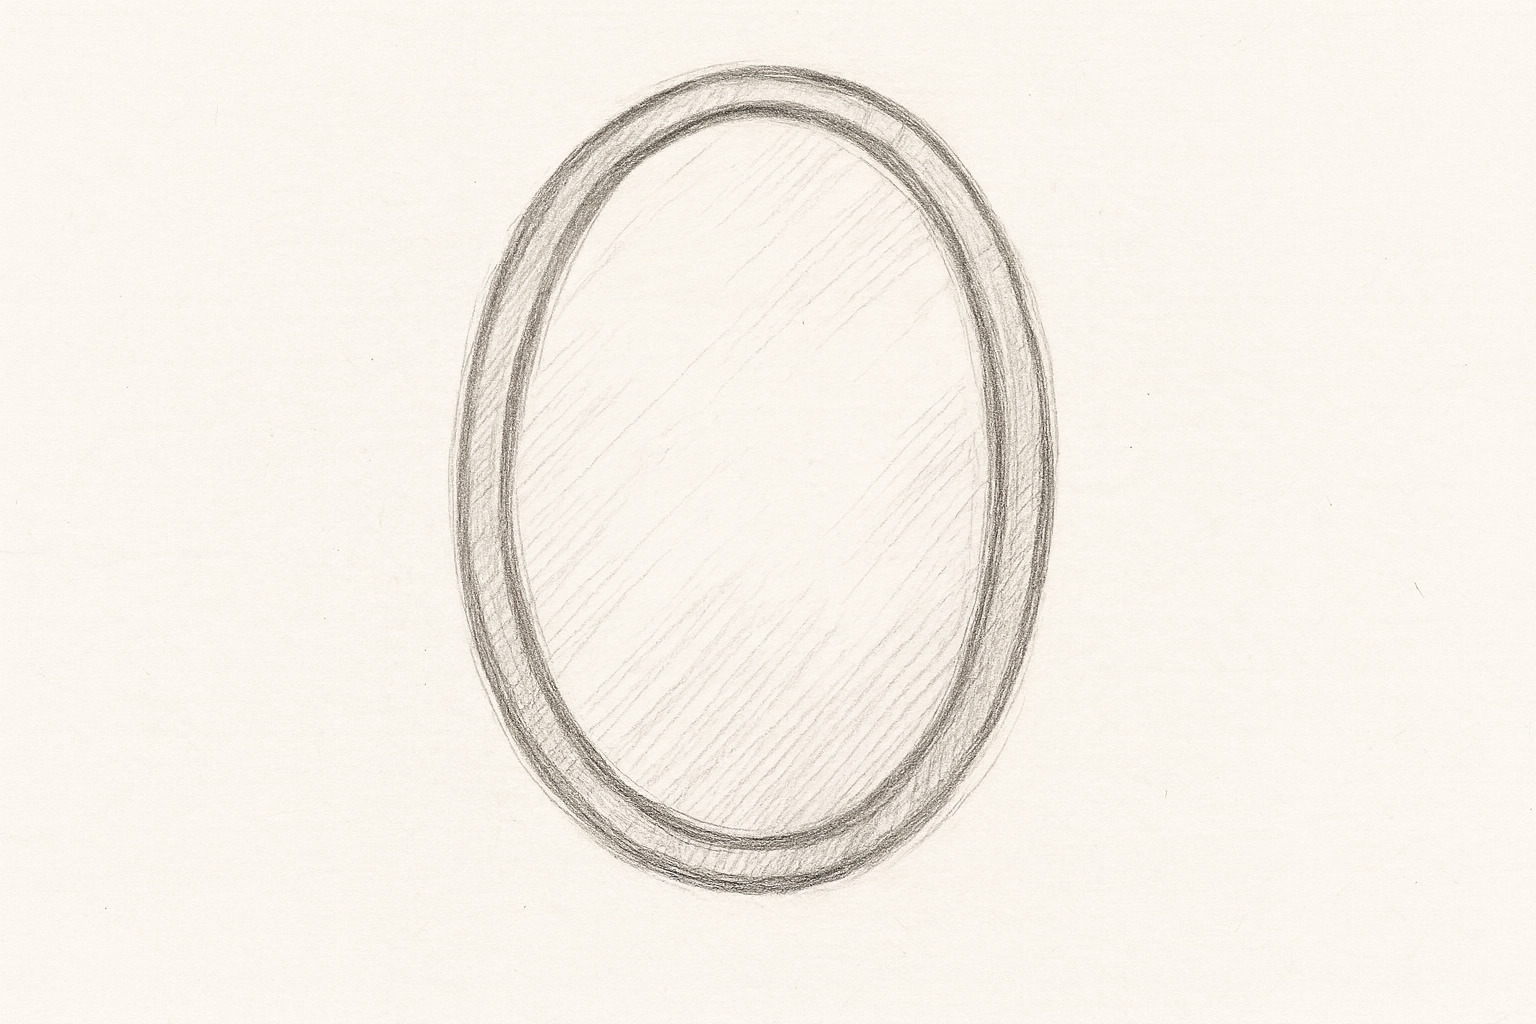
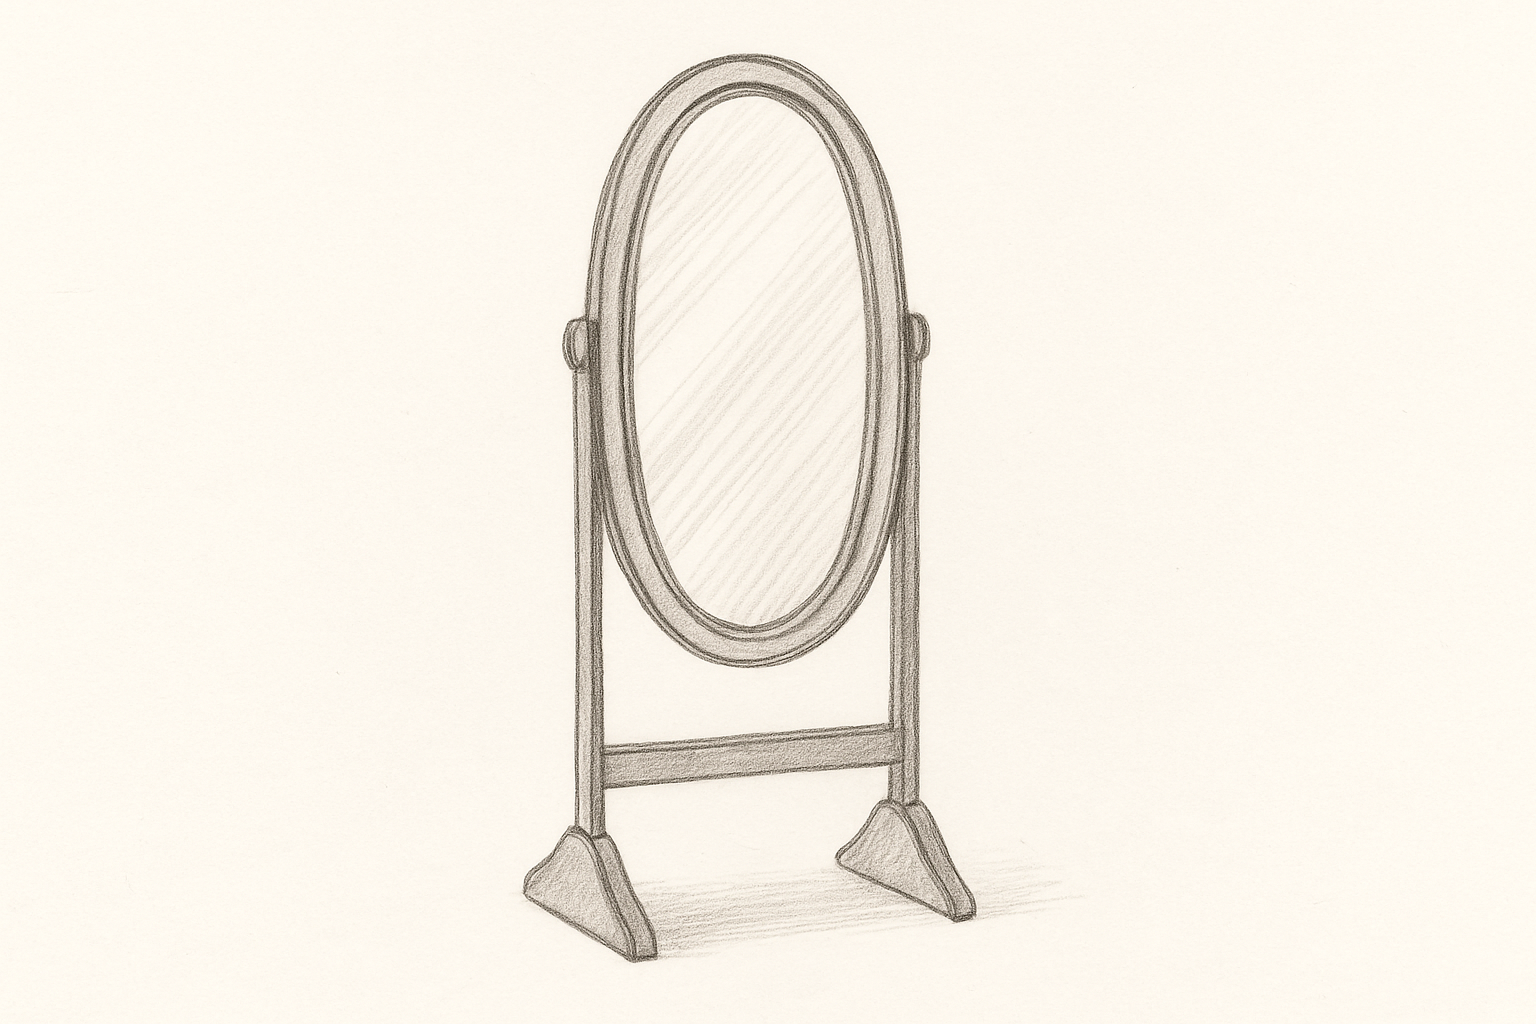
alteracores finais

Changed region(s): [[0.2812, 0.0312, 0.6875, 0.9375]]

diff --git a/src/components/atividades/modulo6/viagemBemEstar.js b/src/components/atividades/modulo6/viagemBemEstar.js
@@ -141,32 +141,68 @@ useEffect(() => {
   };
 
     const handleDragEnd = (result) => {
-      if (!result.destination) return;
-      const { source, destination, draggableId } = result;
+  if (!result.destination) return;
+
+  const { source, destination, draggableId } = result;
+
+  // Limpa aviso se largou numa área válida que não seja a lista
   if (destination && destination.droppableId !== "frasesDisponiveis") {
     if (showValidationError) setShowValidationError(false);
   }
 
-      // Clear validation error when user interacts
-      if (showValidationError) {
-        setShowValidationError(false);
-      }
+  // Limpa erro de validação ao interagir
+  if (showValidationError) setShowValidationError(false);
 
-      if (source.droppableId === "frasesDisponiveis") {
-        setFrasesDisponiveis((prev) => prev.filter((f) => f !== draggableId));
-        setRespostas((prev) => ({
-          ...prev,
-          [destination.droppableId]: [...prev[destination.droppableId], draggableId],
-        }));
-      } else if (source.droppableId !== destination.droppableId) {
-        const frase = respostas[source.droppableId].find((f) => f === draggableId);
-        setRespostas((prev) => ({
-          ...prev,
-          [source.droppableId]: prev[source.droppableId].filter((f) => f !== frase),
-          [destination.droppableId]: [...prev[destination.droppableId], frase],
-        }));
-      }
-    };
+  // 1) Reordenar na MESMA lista (lista ou recipiente)
+  if (source.droppableId === destination.droppableId) {
+    if (source.droppableId === "frasesDisponiveis") {
+      setFrasesDisponiveis((prev) => {
+        const list = Array.from(prev);
+        const [moved] = list.splice(source.index, 1);
+        list.splice(destination.index, 0, moved);
+        return list;
+      });
+    } else {
+      setRespostas((prev) => {
+        const list = Array.from(prev[source.droppableId] || []);
+        const [moved] = list.splice(source.index, 1);
+        list.splice(destination.index, 0, moved);
+        return { ...prev, [source.droppableId]: list };
+      });
+    }
+    return;
+  }
+
+  // 2) DA lista -> PARA um recipiente (mochila/pote)
+  if (source.droppableId === "frasesDisponiveis" && destination.droppableId !== "frasesDisponiveis") {
+    setFrasesDisponiveis((prev) => prev.filter((f) => f !== draggableId));
+    setRespostas((prev) => ({
+      ...prev,
+      [destination.droppableId]: [...(prev[destination.droppableId] || []), draggableId],
+    }));
+    return;
+  }
+
+  // 3) DE um recipiente -> PARA a lista (isto habilita “tirar de dentro”)
+  if (source.droppableId !== "frasesDisponiveis" && destination.droppableId === "frasesDisponiveis") {
+    setRespostas((prev) => ({
+      ...prev,
+      [source.droppableId]: (prev[source.droppableId] || []).filter((f) => f !== draggableId),
+    }));
+    setFrasesDisponiveis((prev) => (prev.includes(draggableId) ? prev : [...prev, draggableId]));
+    return;
+  }
+
+  // 4) Entre recipientes (se algum dia tiveres mais do que um ao mesmo tempo)
+  if (source.droppableId !== "frasesDisponiveis" && destination.droppableId !== "frasesDisponiveis") {
+    const frase = respostas[source.droppableId].find((f) => f === draggableId);
+    setRespostas((prev) => ({
+      ...prev,
+      [source.droppableId]: prev[source.droppableId].filter((f) => f !== frase),
+      [destination.droppableId]: [...(prev[destination.droppableId] || []), frase],
+    }));
+  }
+};
 
     // Function to handle custom phrase editing
     const handlePhraseEdit = (phraseId, newValue) => {
@@ -611,16 +647,16 @@ const handleOpcaoToggle = (index) => {
                                     Espelho
                                 </h4>
                   <p className="lead">
-                    O <strong>espelho</strong> é o <strong>terceiro objeto</strong> desta viagem. Representa o momento em que a pessoa começa a  
-                    <strong>olhar para dentro de si</strong> e a <strong>refletir sobre o que sente</strong>. 
-                    Neste ponto do percurso, as <strong>emoções</strong> ganham espaço para ser reconhecidas, partilhadas e compreendidas.  
-                    Muitas vezes, elas podem parecer <strong>confusas</strong>, intensas ou difíceis de nomear — mas, com o apoio do psicólogo,  
-                    torna-se possível <strong>ver com mais clareza</strong> o que se passa no interior. 
-                    O espelho simboliza o processo de <strong>autoconhecimento</strong>: uma oportunidade para 
-                    <strong>observar sem julgamentos, aceitar o que se sente e dar sentido à experiência emocional</strong>. 
+                    O <strong>espelho</strong> é o <strong> terceiro objeto</strong> desta viagem. Representa o momento em que a pessoa começa a  
+                    <strong> olhar para dentro de si</strong> e a <strong>refletir sobre o que sente</strong>. 
+                    Neste ponto do percurso, as <strong> emoções</strong> ganham espaço para ser reconhecidas, partilhadas e compreendidas.  
+                    Muitas vezes, elas podem parecer <strong> confusas</strong>, intensas ou difíceis de nomear — mas, com o apoio do psicólogo,  
+                    torna-se possível <strong> ver com mais clareza</strong> o que se passa no interior. 
+                    O espelho simboliza o processo de <strong> autoconhecimento</strong>: uma oportunidade para 
+                    <strong> observar sem julgamentos, aceitar o que se sente e dar sentido à experiência emocional</strong>. 
                     É como se, ao olhar para esse espelho simbólico, a pessoa começasse a ver-se com  
                     <strong> mais empatia, mais entendimento e mais verdade</strong>. 
-                    É mais um passo importante nesta viagem: <strong>reconhecer quem se é e o que se sente</strong>, sem medo do reflexo.
+                    É mais um passo importante nesta viagem: <strong> reconhecer quem se é e o que se sente</strong>, sem medo do reflexo.
                   </p>
 
                   <p className="lead text-center">
@@ -708,14 +744,14 @@ const handleOpcaoToggle = (index) => {
                     A <strong>lâmpada</strong> é o <strong>quarto objeto</strong> desta viagem. Representa o momento em que a pessoa começa a  
                     <strong>ganhar clareza sobre os seus desafios</strong> e a <strong>compreender melhor o que sente</strong>. 
                     À medida que o processo terapêutico avança, começam a surgir <strong>novas perspetivas</strong> e  
-                    <strong>formas de lidar com as emoções</strong>. A lâmpada simboliza essa <strong>luz</strong> que se vai acendendo pouco a pouco, 
+                    <strong>formas de lidar com as emoções</strong>. A lâmpada simboliza essa <strong> luz</strong> que se vai acendendo pouco a pouco, 
                     iluminando partes que antes pareciam confusas ou difíceis de entender. 
                     É como se, ao acender essa lâmpada simbólica, a pessoa começasse a  
-                    <strong>ver com mais nitidez o caminho que está a percorrer</strong>, percebendo quais são as  
-                    <strong>estratégias que pode usar</strong> para enfrentar os desafios do dia a dia. 
-                    Este é um momento de <strong>clareza</strong>, de <strong>aprendizagem</strong> e de <strong>esperança</strong>. 
+                    <strong> ver com mais nitidez o caminho que está a percorrer</strong>, percebendo quais são as  
+                    <strong> estratégias que pode usar</strong> para enfrentar os desafios do dia a dia. 
+                    Este é um momento de <strong> clareza</strong>, de <strong> aprendizagem</strong> e de <strong> esperança</strong>. 
                     Um passo importante na viagem ao bem-estar, onde começa a fazer-se 
-                    <strong>luz sobre o que antes estava às escuras</strong>.
+                    <strong> luz sobre o que antes estava às escuras</strong>.
                   </p>
 
                   <p className="mb-3 lead text-center">
@@ -851,7 +887,7 @@ const handleOpcaoToggle = (index) => {
                                       >
                                         {/* Optional: Add a checkmark or indicator for selected items */}
                                         {isSelected && <i className="mb-0 fw-medium"></i>}
-                                        {opcao}
+                                        <strong>{opcao}</strong>
                                       </div>
                                     );
                                   })}
@@ -888,10 +924,10 @@ const handleOpcaoToggle = (index) => {
                 
                   <div>
                     <p className="lead">
-                      O <strong>pote</strong> é o <strong>sexto objeto</strong> desta viagem. Representa a <strong>resiliência</strong> e o valor de 
-                      <strong>tudo aquilo que foi sendo aprendido e conquistado ao longo do caminho</strong>. 
+                      O <strong>pote</strong> é o <strong> sexto objeto</strong> desta viagem. Representa a <strong> resiliência</strong> e o valor de 
+                      <strong> tudo aquilo que foi sendo aprendido e conquistado ao longo do caminho</strong>. 
                       Nesta fase da viagem, a pessoa já passou por momentos de descoberta, desafio e crescimento. 
-                      O pote simboliza o espaço onde são <strong>guardadas as pequenas vitórias</strong>, os <strong>avanços pessoais</strong>, 
+                      O pote simboliza o espaço onde são <strong> guardadas as pequenas vitórias</strong>, os <strong> avanços pessoais</strong>, 
                       e as <strong> estratégias que começaram a fazer sentido</strong>. 
                       É como se, ao longo do percurso, a pessoa fosse recolhendo elementos importantes — 
                       como formas de lidar com a ansiedade, maneiras de ver uma situação com mais clareza ou até momentos 
@@ -899,8 +935,8 @@ const handleOpcaoToggle = (index) => {
                       Mesmo que surjam novos desafios, o pote está lá, cheio de recursos que ajudam a 
                       <strong> recordar a força que foi construída</strong> e a 
                       <strong> usar o que já se aprendeu para seguir em frente com mais confiança</strong>. 
-                      Este objeto marca um momento de <strong> valorização</strong>, de reconhecer que 
-                      <strong>o caminho percorrido tem frutos</strong>, e que <strong>cada passo importa</strong>.
+                      Este objeto marca um momento de <strong> valorização</strong>, de reconhecer que  
+                      <strong> o caminho percorrido tem frutos</strong>, e que <strong> cada passo importa</strong>.
                     </p>
 
                     <p className="lead text-center">
@@ -945,14 +981,17 @@ const handleOpcaoToggle = (index) => {
                                         ref={provided.innerRef}
                                         {...provided.draggableProps}
                                         {...provided.dragHandleProps}
-                                        className="badge text-white p-2"
+                                        className="mb-2 me-2"
                                         style={{
-                                          backgroundColor: "#99cbc8", 
-                                          userSelect: "none",
                                           ...provided.draggableProps.style,
+                                          position: snapshot.isDragging ? "fixed" : "relative",
                                         }}
                                       >
-                                        {frase}
+                                        <DraggablePhrase
+                                          phrase={frase}
+                                          index={index}
+                                          isDragging={snapshot.isDragging}
+                                        />
                                       </div>
                                     )}
                                   </Draggable>

diff --git a/src/components/atividades/modulo4/balancaVirtual.js b/src/components/atividades/modulo4/balancaVirtual.js
@@ -113,30 +113,64 @@ const BalancaVirtual = () => {
   const [showValidationError, setShowValidationError] = useState(false);
   const [mostrarFeedback, setMostrarFeedback] = useState(true);
 
-  const handleDragEnd = (result) => {
-    if (!result.destination) return;
-    const { source, destination, draggableId } = result;
+ const handleDragEnd = (result) => {
+  if (!result.destination) return;
 
-    // Clear validation error when user interacts
-    if (showValidationError) {
-      setShowValidationError(false);
-    }
+  const { source, destination, draggableId } = result;
 
+  // Limpa aviso ao interagir
+  if (showValidationError) setShowValidationError(false);
+
+  // 1) Reordenar na MESMA lista (lista de frases ou um quadrante)
+  if (source.droppableId === destination.droppableId) {
     if (source.droppableId === "frasesDisponiveis") {
-      setFrasesDisponiveis((prev) => prev.filter((f) => f !== draggableId));
-      setRespostas((prev) => ({
-        ...prev,
-        [destination.droppableId]: [...prev[destination.droppableId], draggableId],
-      }));
-    } else if (source.droppableId !== destination.droppableId) {
-      const frase = respostas[source.droppableId].find((f) => f === draggableId);
-      setRespostas((prev) => ({
-        ...prev,
-        [source.droppableId]: prev[source.droppableId].filter((f) => f !== frase),
-        [destination.droppableId]: [...prev[destination.droppableId], frase],
-      }));
+      setFrasesDisponiveis((prev) => {
+        const list = Array.from(prev);
+        const [moved] = list.splice(source.index, 1);
+        list.splice(destination.index, 0, moved);
+        return list;
+      });
+    } else {
+      setRespostas((prev) => {
+        const list = Array.from(prev[source.droppableId] || []);
+        const [moved] = list.splice(source.index, 1);
+        list.splice(destination.index, 0, moved);
+        return { ...prev, [source.droppableId]: list };
+      });
     }
-  };
+    return;
+  }
+
+  // 2) DA lista → PARA um quadrante
+  if (source.droppableId === "frasesDisponiveis" && destination.droppableId !== "frasesDisponiveis") {
+    setFrasesDisponiveis((prev) => prev.filter((f) => f !== draggableId));
+    setRespostas((prev) => ({
+      ...prev,
+      [destination.droppableId]: [...(prev[destination.droppableId] || []), draggableId],
+    }));
+    return;
+  }
+
+  // 3) DE um quadrante → PARA a lista (permite "tirar" do quadrante)
+  if (source.droppableId !== "frasesDisponiveis" && destination.droppableId === "frasesDisponiveis") {
+    setRespostas((prev) => ({
+      ...prev,
+      [source.droppableId]: (prev[source.droppableId] || []).filter((f) => f !== draggableId),
+    }));
+    setFrasesDisponiveis((prev) => (prev.includes(draggableId) ? prev : [...prev, draggableId]));
+    return;
+  }
+
+  // 4) Entre quadrantes
+  if (source.droppableId !== "frasesDisponiveis" && destination.droppableId !== "frasesDisponiveis") {
+    const frase = respostas[source.droppableId].find((f) => f === draggableId);
+    setRespostas((prev) => ({
+      ...prev,
+      [source.droppableId]: prev[source.droppableId].filter((f) => f !== frase),
+      [destination.droppableId]: [...(prev[destination.droppableId] || []), frase],
+    }));
+  }
+};
 
   const avaliar = () => {
     const totalMudar = respostas.mudar.length + respostas.contraNaoMudar.length;

diff --git a/src/components/atividades/modulo3/vozes.js b/src/components/atividades/modulo3/vozes.js
@@ -243,29 +243,44 @@ const AtividadeVozCritica = () => {
     </>
   ];
 
-  return (
-    <div className="container-fluid vh-100 p-0 font-poppins">
-      <Navbar />
-      <div className="row h-100 m-0">
-        <Sidebar />
-        <div className="col px-4 py-4" style={{ backgroundColor: "#FBF9F9" }}>
-          <div className="container p-5 bg-white rounded shadow-sm">
-            <div className="progress mb-4" style={{ height: "8px" }}>
-              <div
-                className="progress-bar"
-                role="progressbar"
-                style={{ width: `${progresso}%`, backgroundColor: "#99CBC8" }}
-                aria-valuenow={progresso}
-                aria-valuemin="0"
-                aria-valuemax="100"
-              ></div>
-            </div>
-            
-            {pagina >= 1 && pagina <= 9 && titulos[pagina] && (
-                <h4 className="text-center fw-bold mb-3" style={{ color: "#234970" }}>
-                  {titulos[pagina]}
-                </h4>
-              )}     
+                    return (
+                      <div className="container-fluid vh-100 p-0 font-poppins">
+                        <Navbar />
+                        <div className="row h-100 m-0">
+                          <Sidebar />
+                          <div className="col px-4 py-4" style={{ backgroundColor: "#FBF9F9" }}>
+                            <div className="container p-5 bg-white rounded shadow-sm vozcritica-font">
+
+                              {/* CSS local para inputs e mensagens */}
+                              <style>
+                                {`
+                                  .vozcritica-font .form-control,
+                                  .vozcritica-font .invalid-feedback,
+                                  .vozcritica-font .alert-danger {
+                                    font-family: 'Lato', sans-serif !important;
+                                  }
+                                  .vozcritica-font .form-control::placeholder {
+                                    font-family: 'Lato', sans-serif !important;
+                                  }
+                                `}
+                              </style>
+
+                              <div className="progress mb-4" style={{ height: "8px" }}>
+                                <div
+                                  className="progress-bar"
+                                  role="progressbar"
+                                  style={{ width: `${progresso}%`, backgroundColor: "#99CBC8" }}
+                                  aria-valuenow={progresso}
+                                  aria-valuemin="0"
+                                  aria-valuemax="100"
+                                ></div>
+                              </div>
+
+                              {pagina >= 1 && pagina <= 9 && titulos[pagina] && (
+                                <h4 className="text-center fw-bold mb-3" style={{ color: "#234970" }}>
+                                  {titulos[pagina]}
+                                </h4>
+                              )}
             
             {imagens[pagina] && (
               <div className="text-center mb-4">
